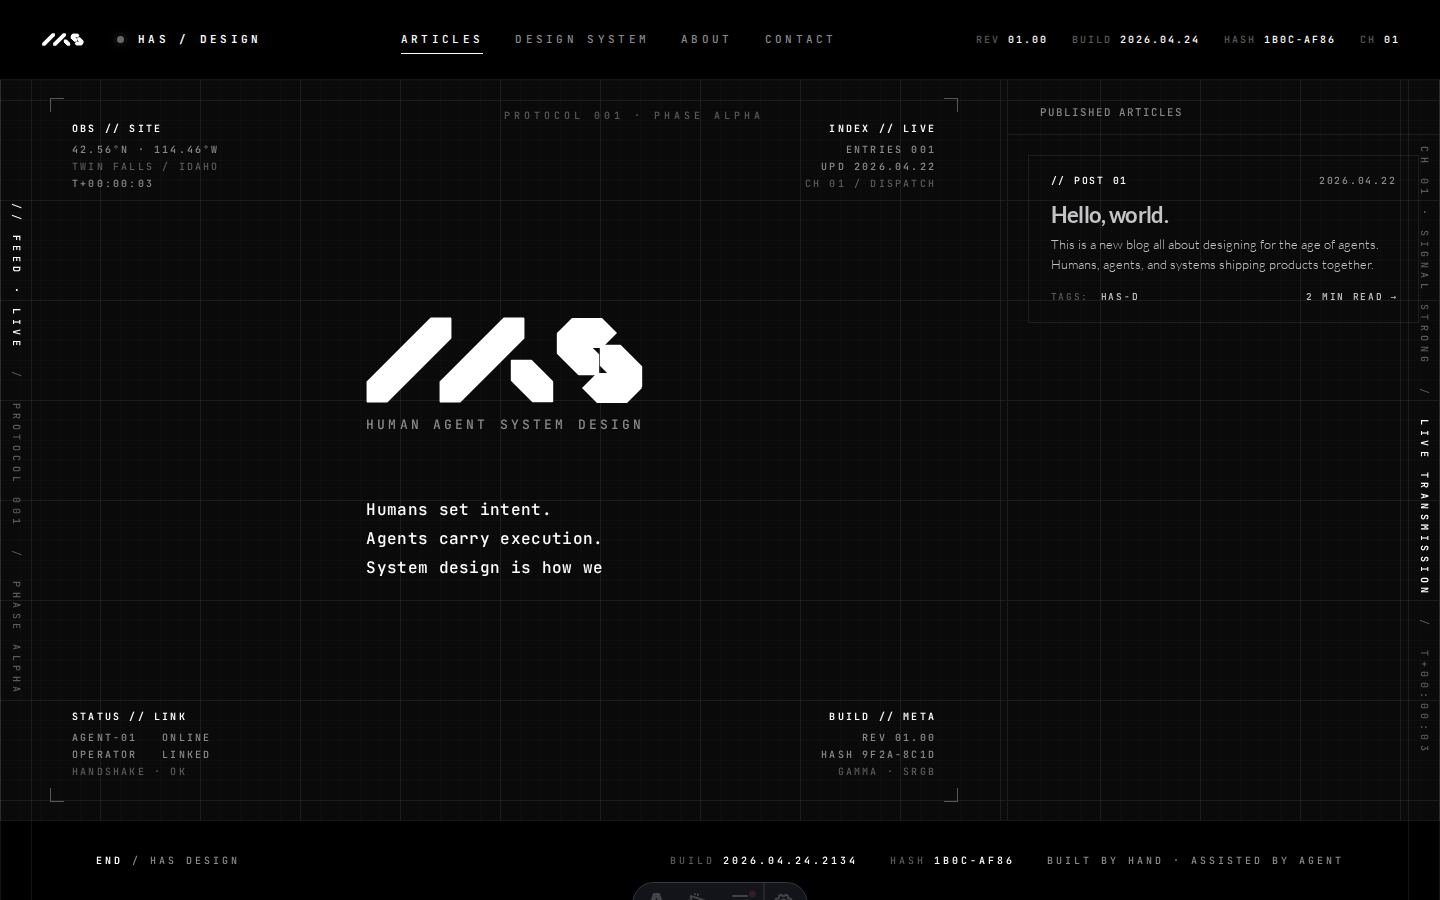
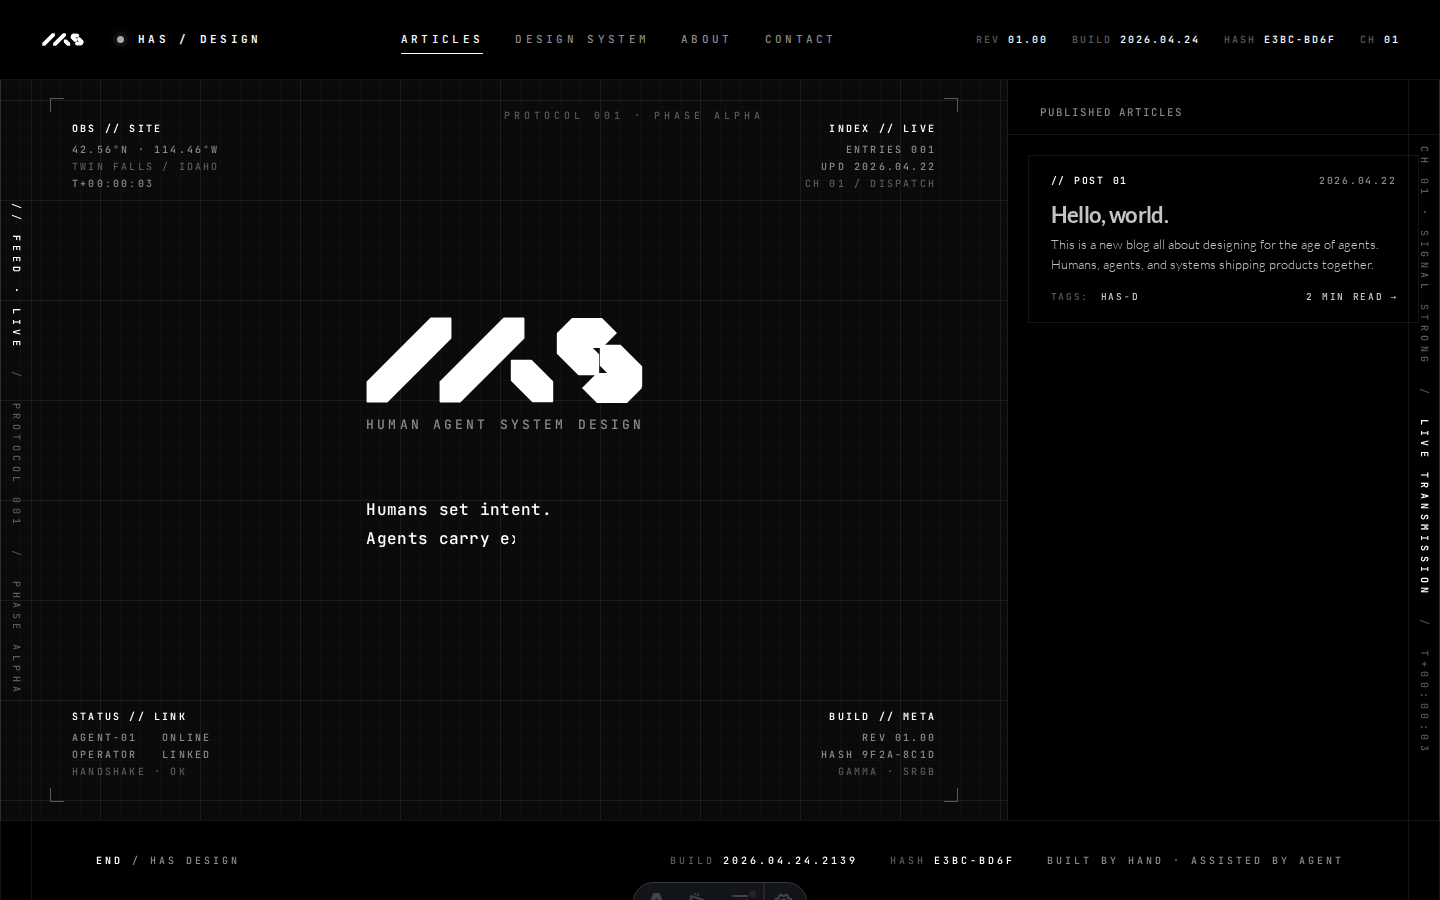
fix(chrome): black surfaces for post list, article reader, BACK bar
Post list panel, article reader column, and the open-article BACK
column all read as chrome surfaces (var(--black)) instead of letting
the canvas grid bleed through. Mobile article overlay and the sticky
mobile-back bar also drop to var(--black) for the same reason.

The hero column keeps showing the canvas + grid so the HUD still has
its techno bed.

Changed region(s): [[0.25, 0.5911, 0.4062, 0.6533], [0.9062, 0.0311, 0.9375, 0.0622]]

diff --git a/src/styles/homepage.css b/src/styles/homepage.css
@@ -47,6 +47,7 @@ button { font: inherit; color: inherit; background: none; border: none; cursor: 
   position: sticky;
   top: 80px;
 }
+.stage.open .col-hero { background: var(--black); }
 
 .col {
   position: relative;
@@ -288,7 +289,11 @@ button { font: inherit; color: inherit; background: none; border: none; cursor: 
    Spec-sheet cards — mono // POST NN + date header, Lato
    700 title, dek, mono tag + read-time footer. Hairline
    border brightens on hover. ILI-721. */
-.col-list { display: flex; flex-direction: column; }
+.col-list {
+  display: flex;
+  flex-direction: column;
+  background: var(--black);
+}
 .list-label {
   flex-shrink: 0;
   font-family: var(--font-mono);
@@ -399,7 +404,11 @@ button { font: inherit; color: inherit; background: none; border: none; cursor: 
 .post-card.active .post-card-read .arrow { transform: translateX(3px); }
 
 /* ───────────── COL 3: ARTICLE READER ───────────── */
-.col-article { overflow-y: auto; overflow-x: hidden; }
+.col-article {
+  overflow-y: auto;
+  overflow-x: hidden;
+  background: var(--black);
+}
 .col-article::-webkit-scrollbar { width: 2px; }
 .col-article::-webkit-scrollbar-thumb { background: #1c1c1c; }
 
@@ -915,7 +924,7 @@ button { font: inherit; color: inherit; background: none; border: none; cursor: 
     position: fixed;
     inset: 0;
     z-index: 500;
-    background: var(--bg-canvas);
+    background: var(--black);
     transform: translateX(100%);
     transition: transform 0.4s cubic-bezier(0.4, 0, 0.2, 1);
     overflow-y: auto;
@@ -933,7 +942,7 @@ button { font: inherit; color: inherit; background: none; border: none; cursor: 
     width: 100%;
     height: 52px;
     padding: 0 1.25rem;
-    background: var(--bg-canvas);
+    background: var(--black);
     border-bottom: 1px solid #1c1c1c;
     z-index: 10;
     font-family: var(--font-mono);
